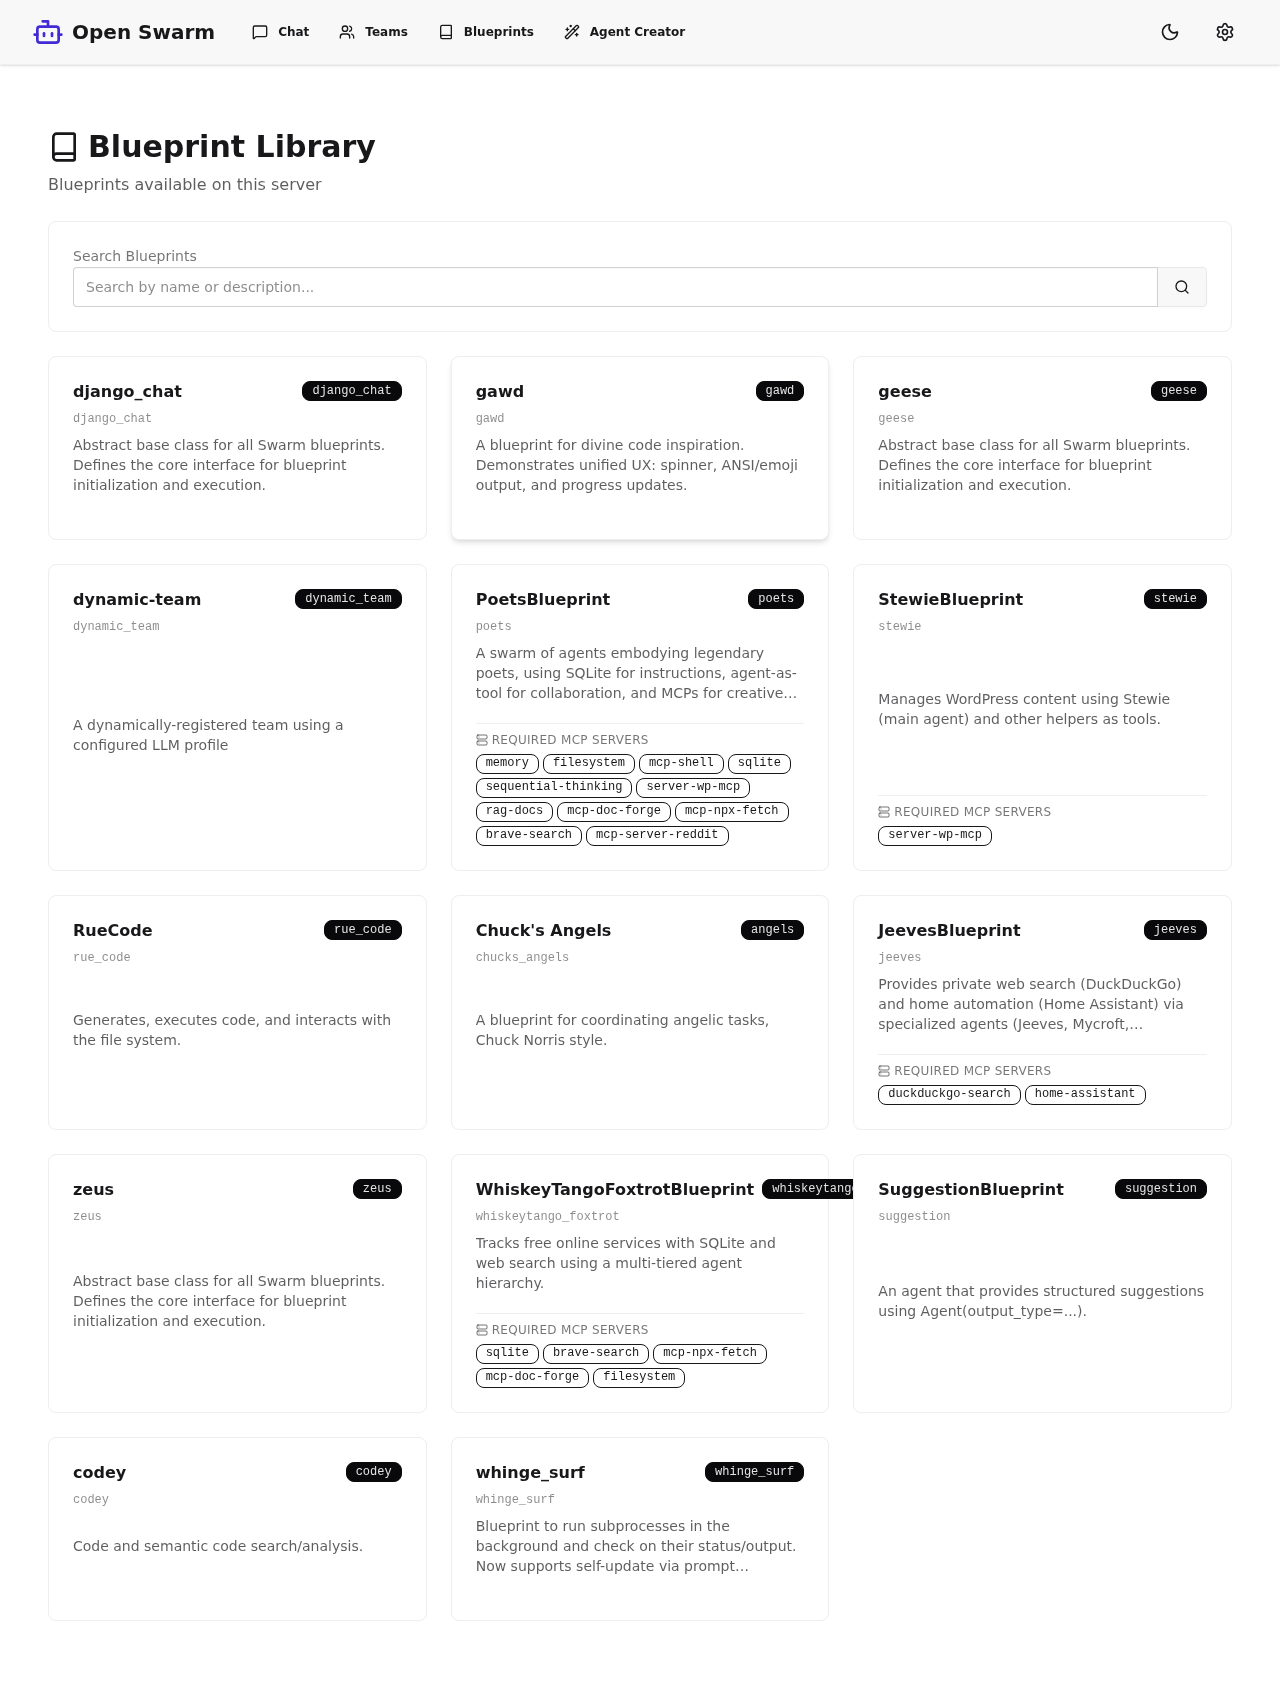
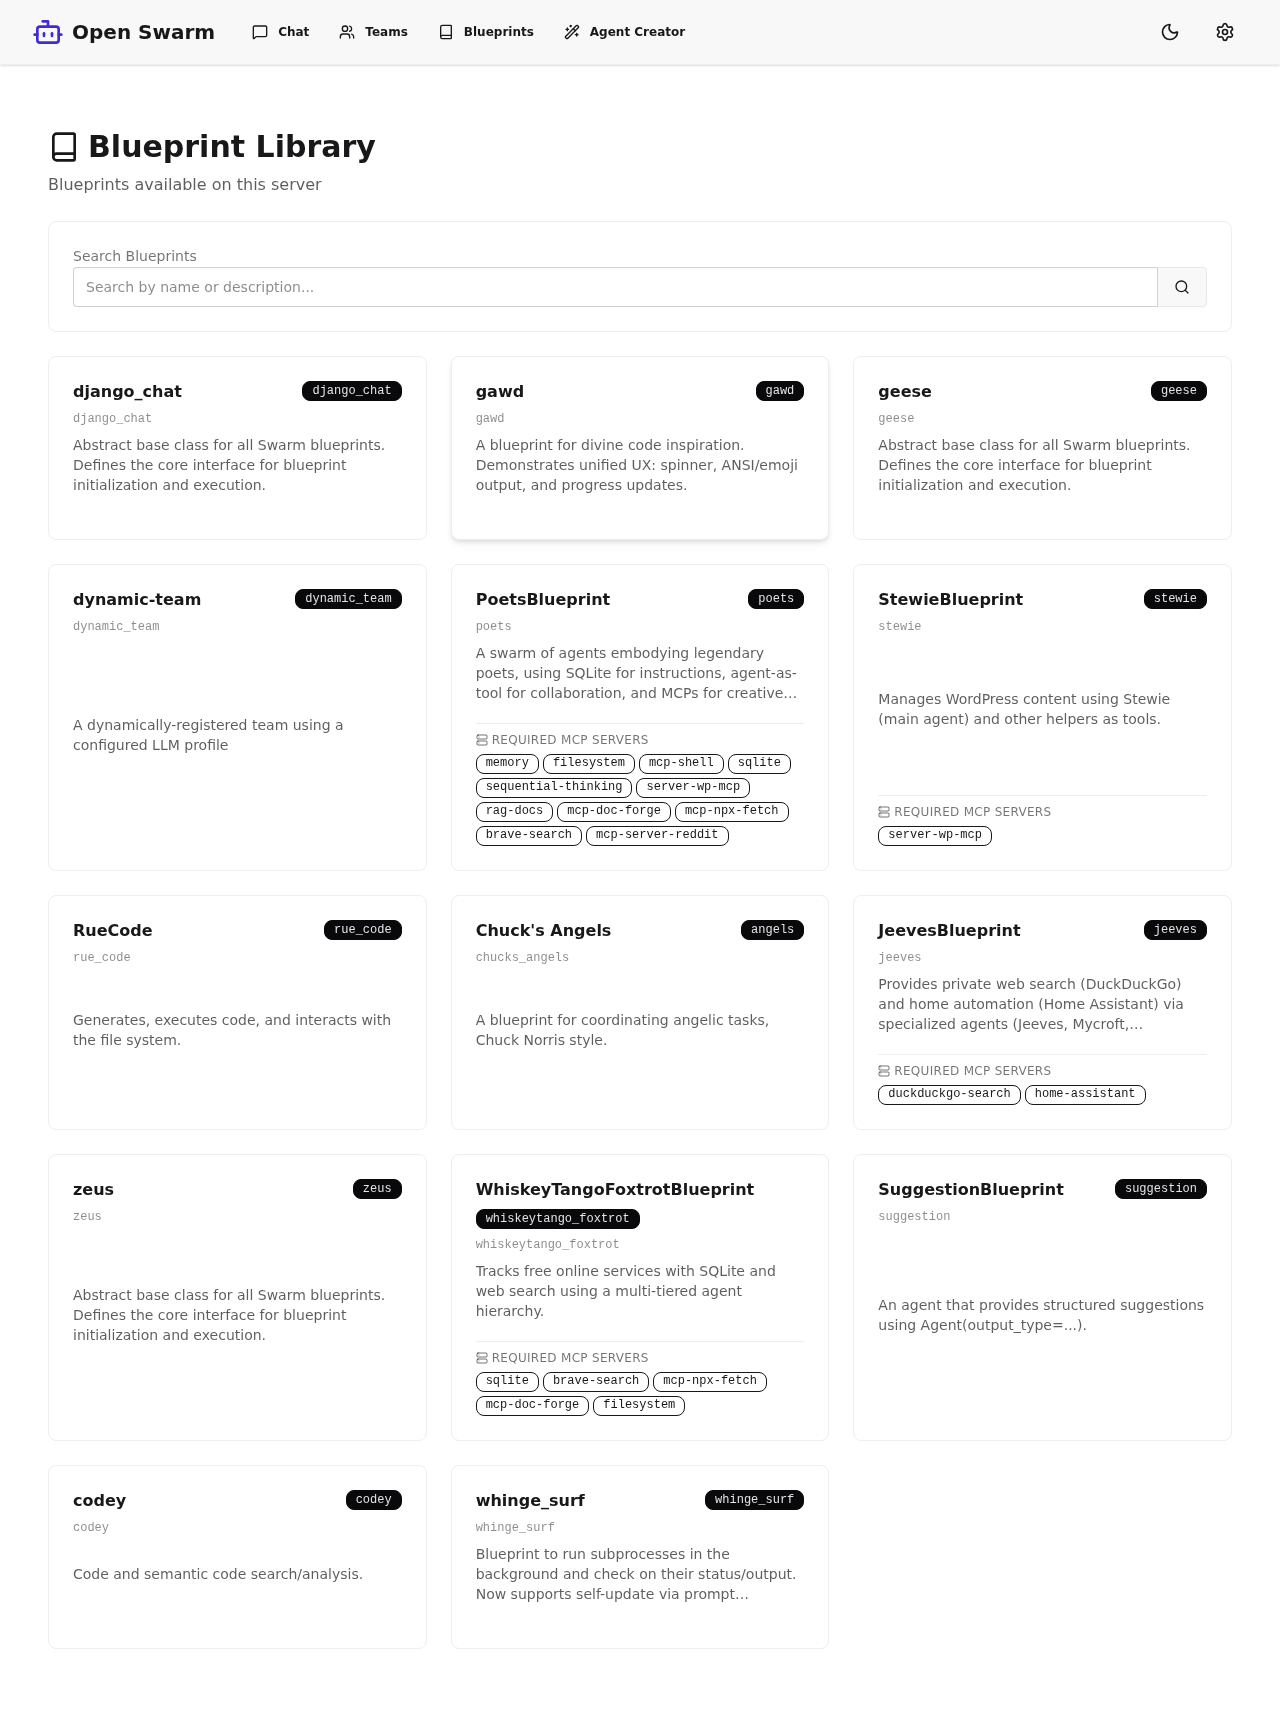
fix(webui): mobile responsive pass — working bottom dock, overflow fixes, mobile captures (#97)
Audit of all 13 documented pages at 390x844 (iPhone-14-class emulation)
found three real breakages in the SPA; Django/Bootstrap pages were fine.

Broken and fixed:
- Bottom nav never rendered: the markup used DaisyUI 4's `btm-nav`,
  which was removed in DaisyUI 5 (now `dock`). It rendered as unstyled
  stacked links in the page flow with a hardcoded `active` on Home.
  Replaced with the v5 `dock` component using NavLink-driven
  `dock-active` state, and gave the main content `pb-24 lg:pb-8` so the
  now-fixed bar doesn't cover page bottoms.
- /blueprints overflowed the viewport by ~120px: the
  WhiskeyTangoFoxtrotBlueprint card's long unbreakable name plus its
  `shrink-0` badge pushed the badge outside the card (clipped on
  desktop too). Card header now wraps (`flex-wrap` + `break-words`);
  desktop spa-blueprints.png re-captured to match.
- /chat header rendered the blueprint selector awkwardly above the
  title at narrow widths, and the h-[calc(100vh-9rem)] panel would sit
  under the fixed dock. Header stacks below lg, panel height accounts
  for the dock (h-[calc(100vh-13rem)] lg:h-[calc(100vh-9rem)]).

Tooling/docs:
- capture_user_journey.py grows a --mobile flag (390x844, dpr 2,
  is_mobile/has_touch) writing to docs/screenshots/mobile/.
- 13 mobile captures committed; SCREENSHOTS.md gains a Mobile section
  with per-page notes and the regen command.

Verified: Bootstrap burger menu on Django pages expands correctly
[…]

Pull request: Mobile responsive pass: working bottom dock, overflow fixes, mobile screenshot mode
## Summary

Audited all 13 documented pages at 390x844 (iPhone-14-class Playwright emulation: dpr 2, touch) and fixed what was actually broken. Django/Bootstrap pages needed no changes — only the React SPA had real breakages.

## Broken things found (with before behavior)

| Page | What was broken | Fix |
| --- | --- | --- |
| All SPA pages | **Bottom nav never rendered.** Markup used DaisyUI 4's `btm-nav`, removed in DaisyUI 5 — it appeared as plain unstyled links stacked in the page flow, with a hardcoded `active` class on Home regardless of route | Replaced with DaisyUI 5 `dock`: fixed bottom bar, 6 items fit 390px legibly with labels, `NavLink`-driven `dock-active` per route; main content gets `pb-24 lg:pb-8` so the fixed bar doesn't cover page bottoms |
| `/blueprints` (SPA) | **~120px horizontal page overflow**: `WhiskeyTangoFoxtrotBlueprint` card title (unbreakable word) + `shrink-0` badge pushed the badge outside the card and widened the page to 509 CSS px (badge was clipped on desktop too) | Card header wraps (`flex-wrap`, `min-w-0 break-words`); page is back to exactly 390px wide |
| `/chat` (SPA) | Header rendered the blueprint selector **above** the page title at narrow widths; with a working fixed dock the `h-[calc(100vh-9rem)]` panel would put the composer underneath it; ~5px horizontal overflow | Header stacks title → selector → status below `lg` (desktop row unchanged); panel height is `h-[calc(100vh-13rem)] lg:h-[calc(100vh-9rem)]`; overflow gone |
[…]

diff --git a/webui/frontend/src/App.tsx b/webui/frontend/src/App.tsx
@@ -1,5 +1,5 @@
 import { useEffect, useState } from 'react'
-import { BrowserRouter as Router, Routes, Route, Link } from 'react-router-dom'
+import { BrowserRouter as Router, Routes, Route, Link, NavLink } from 'react-router-dom'
 import { useQuery } from '@tanstack/react-query'
 import { Home, Settings, Bot, Book, Users, PlusCircle, MessageSquare, ShieldAlert, Wand2, X, Sun, Moon } from 'lucide-react'
 import { Card, Alert, Badge, LoadingSpinner, ToastProvider } from './components/DaisyUI'
@@ -76,8 +76,8 @@ function App() {
             {/* Auth failure banner (only shown after a real 401/403) */}
             <AuthErrorBanner />
 
-            {/* Main Content */}
-            <div className="max-w-7xl mx-auto px-4 sm:px-6 lg:px-8 py-8">
+            {/* Main Content (pb-24 clears the fixed mobile dock below lg) */}
+            <div className="max-w-7xl mx-auto px-4 sm:px-6 lg:px-8 pt-8 pb-24 lg:pb-8">
               <Routes>
                 <Route path="/" element={<Dashboard />} />
                 <Route path="/chat" element={<ChatPage />} />
@@ -88,33 +88,28 @@ function App() {
               </Routes>
             </div>
 
-            {/* Bottom Navigation (Mobile) */}
-            <div className="btm-nav lg:hidden">
-              <Link to="/" className="active">
-                <Home className="h-5 w-5" />
-                <span className="btm-nav-label">Home</span>
-              </Link>
-              <Link to="/chat">
-                <MessageSquare className="h-5 w-5" />
-                <span className="btm-nav-label">Chat</span>
-              </Link>
-              <Link to="/teams">
-                <Users className="h-5 w-5" />
-                <span className="btm-nav-label">Teams</span>
-              </Link>
-              <Link to="/blueprints">
-                <Book className="h-5 w-5" />
-                <span className="btm-nav-label">Blueprints</span>
-              </Link>
-              <Link to="/agent-creator">
-                <Wand2 className="h-5 w-5" />
-                <span className="btm-nav-label">Creator</span>
-              </Link>
-              <Link to="/settings">
-                <Settings className="h-5 w-5" />
-                <span className="btm-nav-label">Settings</span>
-              </Link>
-            </div>
+            {/* Bottom Navigation (Mobile) — DaisyUI 5 "dock" (btm-nav was
+                removed in v5); fixed to the viewport bottom below lg. */}
+            <nav className="dock lg:hidden" aria-label="Mobile navigation">
+              {[
+                { to: '/', label: 'Home', icon: Home, end: true },
+                { to: '/chat', label: 'Chat', icon: MessageSquare },
+                { to: '/teams', label: 'Teams', icon: Users },
+                { to: '/blueprints', label: 'Blueprints', icon: Book },
+                { to: '/agent-creator', label: 'Creator', icon: Wand2 },
+                { to: '/settings', label: 'Settings', icon: Settings },
+              ].map(({ to, label, icon: Icon, end }) => (
+                <NavLink
+                  key={to}
+                  to={to}
+                  end={end}
+                  className={({ isActive }) => (isActive ? 'dock-active' : '')}
+                >
+                  <Icon className="h-5 w-5" />
+                  <span className="dock-label">{label}</span>
+                </NavLink>
+              ))}
+            </nav>
           </div>
         </ToastProvider>
       </AuthProvider>

diff --git a/webui/frontend/src/pages/ChatPage.tsx b/webui/frontend/src/pages/ChatPage.tsx
@@ -144,16 +144,17 @@ const ChatPage = () => {
   const isStreaming = messages.some((m) => m.streaming)
 
   return (
-    <div className="container mx-auto flex h-[calc(100vh-9rem)] min-h-[28rem] flex-col gap-4 px-4 py-6">
-      {/* Header: title + blueprint selector + connection status */}
-      <div className="flex flex-wrap items-end justify-between gap-x-6 gap-y-3">
+    <div className="container mx-auto flex h-[calc(100vh-13rem)] lg:h-[calc(100vh-9rem)] min-h-[28rem] flex-col gap-4 px-4 py-6">
+      {/* Header: title + blueprint selector + connection status.
+          Stacks vertically below lg; single row on desktop. */}
+      <div className="flex flex-col gap-3 lg:flex-row lg:flex-wrap lg:items-end lg:justify-between lg:gap-x-6">
         <h1 className="text-3xl font-bold flex items-center gap-2">
           <MessageSquare className="h-8 w-8" />
           Chat
         </h1>
 
         {/* Blueprint selector (from /v1/blueprints/) */}
-        <div className="flex flex-1 flex-wrap items-end justify-end gap-4">
+        <div className="flex flex-wrap items-end gap-4 lg:flex-1 lg:justify-end">
           {blueprintsQuery.isPending ? (
             <div className="flex items-center gap-2 py-2">
               <LoadingSpinner size="sm" />

diff --git a/webui/frontend/src/pages/BlueprintsPage.tsx b/webui/frontend/src/pages/BlueprintsPage.tsx
@@ -89,8 +89,11 @@ const BlueprintsPage = () => {
               className="card bg-base-100 border border-base-300 hover:shadow-md transition-shadow h-full"
             >
               <div className="card-body flex flex-col">
-                <div className="flex justify-between items-start gap-2">
-                  <h3 className="card-title text-base leading-snug">{blueprint.name}</h3>
+                {/* flex-wrap + break-words: long unbroken names (e.g.
+                    WhiskeyTangoFoxtrotBlueprint) must not push the badge
+                    outside the card / widen the page on small screens. */}
+                <div className="flex flex-wrap justify-between items-start gap-2">
+                  <h3 className="card-title text-base leading-snug min-w-0 break-words">{blueprint.name}</h3>
                   <span className="badge badge-neutral badge-sm font-mono shrink-0">
                     {blueprint.abbreviation || blueprint.id}
                   </span>

diff --git a/scripts/capture_user_journey.py b/scripts/capture_user_journey.py
@@ -7,7 +7,9 @@ Idempotent and re-runnable:
    env it needs (DJANGO_DEBUG=true, ENABLE_WEBUI=true), waits for readiness.
 2. Visits each page in the user journey with Playwright (Chromium,
    1280x800) and saves full-page PNGs to docs/screenshots/<kebab>.png,
-   overwriting any previous capture.
+   overwriting any previous capture. With --mobile, emulates an iPhone-14
+   class device (390x844, dpr 2, touch) and writes to
+   docs/screenshots/mobile/<kebab>.png instead.
 3. If a page redirects to a login form, creates a throwaway superuser via
    `manage.py shell -c` and logs in through the form, then retries.
 4. Kills the server and prints a captured/skipped summary.
@@ -15,13 +17,14 @@ Idempotent and re-runnable:
 Pages that return 4xx/5xx are skipped and reported -- never faked.
 
 Usage:
-    .venv/bin/python scripts/capture_user_journey.py
+    .venv/bin/python scripts/capture_user_journey.py [--mobile]
 
 Requires: `.venv/bin/pip install playwright && .venv/bin/playwright install chromium`
 """
 
 from __future__ import annotations
 
+import argparse
 import os
 import subprocess
 import sys
@@ -35,6 +38,8 @@ PORT = 8321
 BASE_URL = f"http://127.0.0.1:{PORT}"
 SCREENSHOT_DIR = REPO_ROOT / "docs" / "screenshots"
 VIEWPORT = {"width": 1280, "height": 800}
+# iPhone 14-class emulation for --mobile runs.
+MOBILE_VIEWPORT = {"width": 390, "height": 844}
 
 # Throwaway credentials for the dev-server superuser (local only, never
 # committed anywhere; the dev db is throwaway state).
@@ -135,7 +140,8 @@ def login_if_needed(page) -> bool:
     return True
 
 
-def capture(page, slug: str, path: str, name: str) -> tuple[bool, str]:
+def capture(page, slug: str, path: str, name: str,
+            screenshot_dir: Path) -> tuple[bool, str]:
     """Returns (captured, detail)."""
     url = BASE_URL + path
     response = page.goto(url, wait_until="domcontentloaded", timeout=30000)
@@ -157,12 +163,20 @@ def capture(page, slug: str, path: str, name: str) -> tuple[bool, str]:
     except Exception:
         pass  # busy pages (polling) never go idle; capture anyway
     page.wait_for_timeout(750)
-    out = SCREENSHOT_DIR / f"{slug}.png"
+    out = screenshot_dir / f"{slug}.png"
     page.screenshot(path=str(out), full_page=True)
     return True, str(out.relative_to(REPO_ROOT))
 
 
 def main() -> int:
+    parser = argparse.ArgumentParser(description=__doc__.splitlines()[0])
+    parser.add_argument(
+        "--mobile", action="store_true",
+        help="emulate an iPhone-14 class device (390x844, dpr 2, touch) and "
+             "write captures to docs/screenshots/mobile/ instead",
+    )
+    args = parser.parse_args()
+
     try:
         from playwright.sync_api import sync_playwright
     except ImportError:
@@ -170,7 +184,12 @@ def main() -> int:
         print("  .venv/bin/pip install playwright && .venv/bin/playwright install chromium")
         return 1
 
-    SCREENSHOT_DIR.mkdir(parents=True, exist_ok=True)
+    screenshot_dir = SCREENSHOT_DIR / "mobile" if args.mobile else SCREENSHOT_DIR
+    context_kwargs: dict = {"viewport": MOBILE_VIEWPORT if args.mobile else VIEWPORT}
+    if args.mobile:
+        context_kwargs.update(device_scale_factor=2, is_mobile=True, has_touch=True)
+
+    screenshot_dir.mkdir(parents=True, exist_ok=True)
     print(f"Starting Django dev server on port {PORT} ...")
     server = start_server()
     captured: list[tuple[str, str]] = []
@@ -178,7 +197,7 @@ def main() -> int:
     try:
         with sync_playwright() as pw:
             browser = pw.chromium.launch()
-            page = browser.new_page(viewport=VIEWPORT)
+            page = browser.new_page(**context_kwargs)
             # Authenticate up front: the chat websocket consumer only accepts
             # logged-in sessions, and authed pages render more realistically.
             try:
@@ -190,7 +209,7 @@ def main() -> int:
                 print(f"  [auth     ] anonymous capture (login failed: {exc})")
             for slug, path, name in PAGES:
                 try:
-                    ok, detail = capture(page, slug, path, name)
+                    ok, detail = capture(page, slug, path, name, screenshot_dir)
                 except Exception as exc:  # never let one page kill the run
                     ok, detail = False, f"error: {exc}"
                 if ok:

diff --git a/docs/SCREENSHOTS.md b/docs/SCREENSHOTS.md
@@ -32,6 +32,35 @@ headless Chromium, 1280x800 viewport, full-page PNGs.
 The "Used in" column is verified by grepping the docs for
 `screenshots/<file>`; README.md and USERGUIDE.md embed no screenshots.
 
+## Mobile captures (`docs/screenshots/mobile/`)
+
+Same 13 pages captured with `--mobile`: iPhone-14-class emulation
+(390x844 viewport, device-scale-factor 2, touch enabled), full-page PNGs.
+The SPA shows the DaisyUI `dock` bottom navigation below the `lg`
+breakpoint; Django pages collapse into the Bootstrap burger menu.
+
+| File | Page / URL | Mobile-specific notes | Captured | Status |
+| --- | --- | --- | --- | --- |
+| `mobile/landing.png` | `/` (React SPA dashboard) | Stat cards and quick actions stack; bottom dock with active-tab indicator | 2026-06-11 | current |
+| `mobile/spa-chat.png` | `/chat` (React SPA) | Header stacks (title above blueprint selector); composer clears the fixed dock | 2026-06-11 | current |
+| `mobile/spa-teams.png` | `/teams` (React SPA) | Single-column empty state; dock highlights Teams | 2026-06-11 | current |
+| `mobile/spa-blueprints.png` | `/blueprints` (React SPA) | Single-column cards; long blueprint names wrap instead of overflowing | 2026-06-11 | current |
+| `mobile/spa-agent-creator.png` | `/agent-creator` (React SPA) | Form fields full-width, single column | 2026-06-11 | current |
+| `mobile/spa-settings.png` | `/settings` (React SPA) | Settings categories and env-var table fit the narrow viewport | 2026-06-11 | current |
+| `mobile/login.png` | `/accounts/login/` (Django) | Login card fills the width with comfortable margins | 2026-06-11 | current |
+| `mobile/teams.png` | `/teams/` (Django) | Bootstrap navbar collapsed to burger; form and buttons wrap | 2026-06-11 | current |
+| `mobile/teams-launch.png` | `/teams/launch/` (Django) | Launcher form full-width; output panel below | 2026-06-11 | current |
+| `mobile/blueprint-library.png` | `/blueprint-library/` (Django) | Summary tiles and blueprint cards stack single-column | 2026-06-11 | current |
+| `mobile/my-blueprints.png` | `/blueprint-library/my-blueprints/` (Django) | Stat tiles stack; empty-state actions wrap | 2026-06-11 | current |
+| `mobile/agent-creator.png` | `/agent-creator/` (Django) | Persona form single-column; Validate/Save buttons wrap in the panel header | 2026-06-11 | current |
+| `mobile/settings.png` | `/settings/` (Django) | Dashboard header tiles wrap; category accordions full-width | 2026-06-11 | current |
+
+Regenerate with:
+
+```bash
+.venv/bin/python scripts/capture_user_journey.py --mobile
+```
+
 ## Demo animations (`docs/demo/`)
 
 | File | What it shows | Used in | Captured | Status |
@@ -65,7 +94,8 @@ README.md, not a screenshot.)
 ```bash
 .venv/bin/pip install playwright
 .venv/bin/playwright install chromium
-.venv/bin/python scripts/capture_user_journey.py
+.venv/bin/python scripts/capture_user_journey.py            # desktop (1280x800)
+.venv/bin/python scripts/capture_user_journey.py --mobile   # mobile (390x844, dpr 2)
 ```
 
 The script is idempotent: it starts its own dev server on port 8321